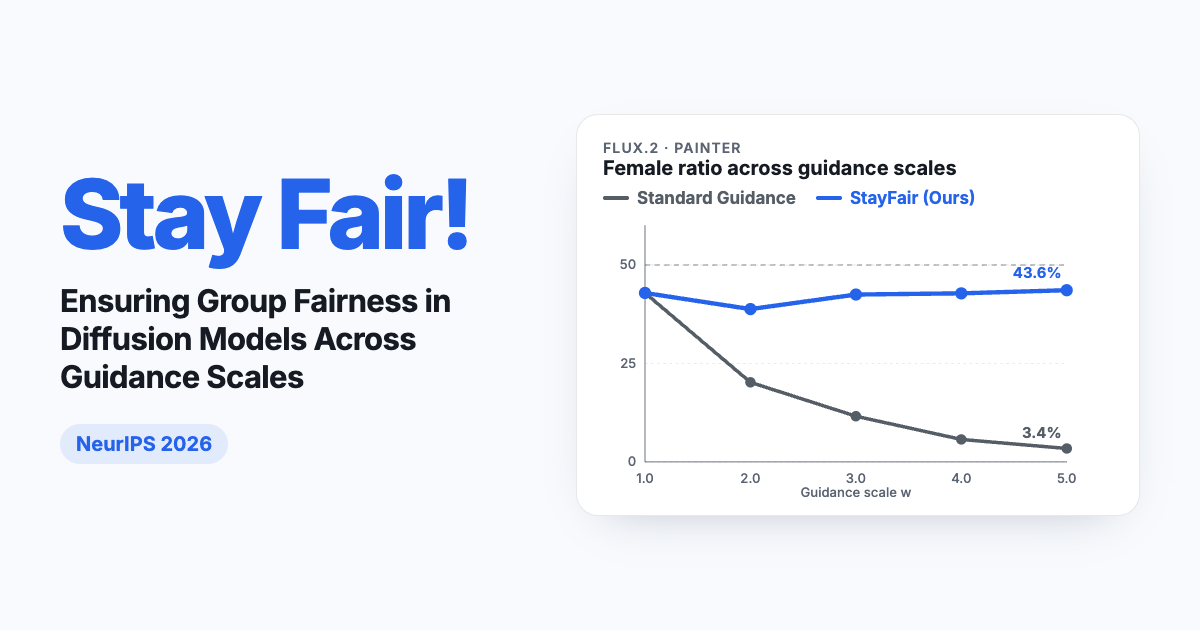
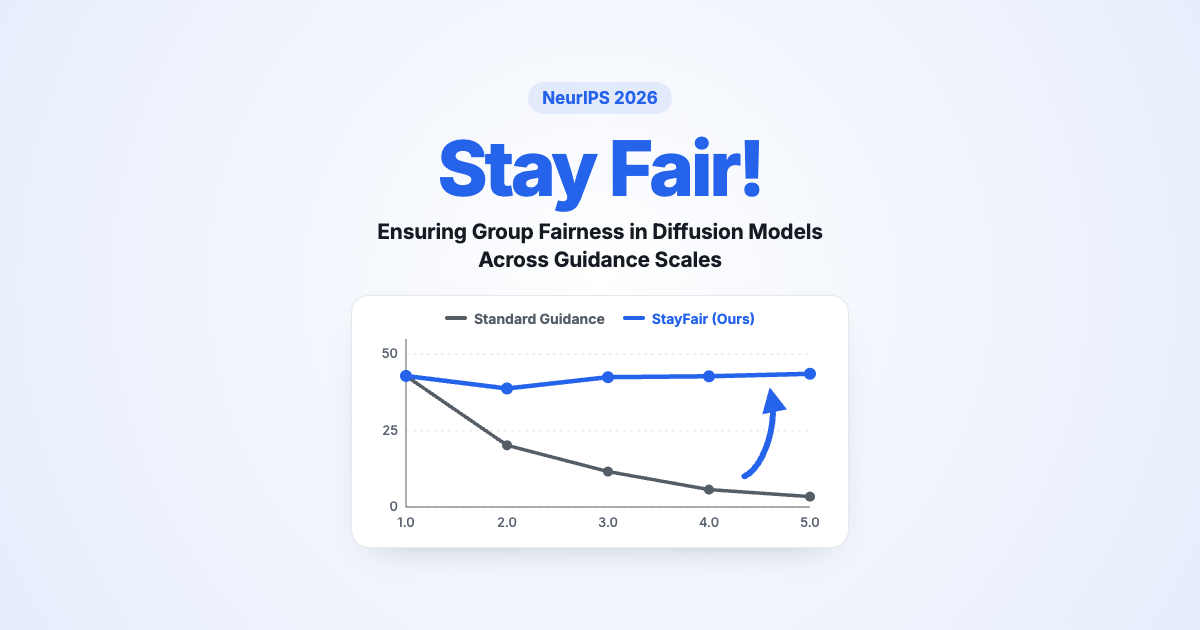
Center the share image so square previews keep it whole

diff --git a/index.html b/index.html
@@ -10,7 +10,7 @@
   <meta property="og:title" content="Stay Fair! Ensuring Group Fairness in Diffusion Models Across Guidance Scales">
   <meta property="og:description" content="No matter which guidance scale is selected by the user, group fairness should be preserved. StayFair debiases guidance (NeurIPS 2026).">
   <meta property="og:url" content="https://kim-myeong-soo.github.io/stayfair/">
-  <meta property="og:image" content="https://kim-myeong-soo.github.io/stayfair/static/images/og.png">
+  <meta property="og:image" content="https://kim-myeong-soo.github.io/stayfair/static/images/og.png?v=2">
   <meta property="og:image:width" content="1200">
   <meta property="og:image:height" content="630">
   <meta name="twitter:card" content="summary_large_image">
